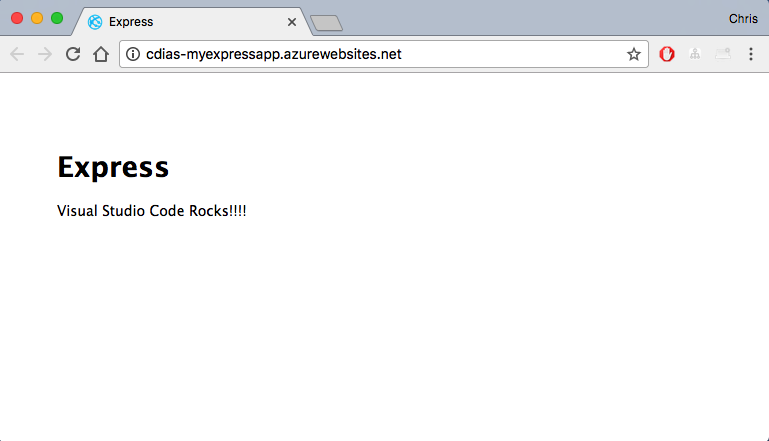
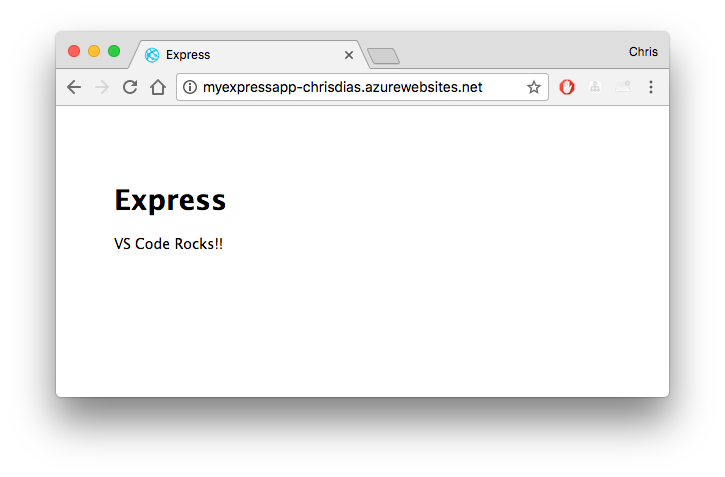
finish first round of tutorial

Changed region(s): [[0.0, 0.0, 1.0, 0.9433], [0.0, 0.1179, 0.0303, 0.1474]]

diff --git a/tutorials/nodejs-deployment/2.setup.md b/tutorials/nodejs-deployment/2.setup.md
@@ -1,7 +1,7 @@
 ---
 Order: 2
-TOCTitle: Setup
-PageTitle: Setup
+TOCTitle: Set up
+PageTitle: Set up
 MetaDescription: 
 MetaSocialImage: 
 Date: 
@@ -22,8 +22,6 @@ In this step you will install the Azure Command Line Interface (CLI). You will u
 
 The Azure CLI is cross platform and runs on Windows, MacOS, as well as many different Linux distributions.
 
-<button>Install the Azure CLI</button>
-
 > [Install the Azure CLI](https://docs.microsoft.com/en-us/cli/azure/install-azure-cli)
 
 ### Log In
@@ -33,7 +31,7 @@ Once installed, you can use the `az` command from your favorite terminal.
 Following the instructions, browse to [https://aka.ms/devicelogin](https://aka.ms/devicelogin) and paste in the 9 character code. When prompted, use the email address and password you used when creating your Azure account.
 
 ``` bash
-az login
+$ az login
 To sign in, use a web browser to open the page https://aka.ms/devicelogin and enter the code BF9BUDLGR to authenticate.
 ```
 
@@ -42,39 +40,24 @@ To sign in, use a web browser to open the page https://aka.ms/devicelogin and en
 Make sure you've got the latest CLI components installed by telling the CLI to update itself. This is useful if you have not run the CLI in a while.
 
 ``` bash
-az component update
+$ az component update
 ```
-
-### Set the Subscription
-
-If you have multiple Azure subscriptions you will want to make sure you are using the appropriate one for this walkthrough. List all of the subscriptions you have access to and then set the active one.
-
-``` bash
-az account list -o table
-Name                                         CloudName    SubscriptionId                        State    IsDefault
--------------------------------------------  -----------  ------------------------------------  -------  -----------
-Windows Azure MSDN - Visual Studio Ultimate  AzureCloud   b9f03513-e38b-4ef7-81a2-2669c52cdd51  Enabled
-Demo App Subscription                        AzureCloud   065849c9-c0c8-43d0-874c-01c7b295a1bc  Enabled  True
-ToDo App Subscription                        AzureCloud   546ac631-883f-4fb4-bff0-b8639ed6e7c8  Enabled
-
-az account set --subscription "Windows Azure MSDN - Visual Studio Ultimate"
-az configure --defaults location=westus
-```
-
 ## Prerequisite Check
 
 Before we continue, ensure that you have all of the prerequisites properly installed. Type each command and ensure it displays the version you have installed. If your Node.js version is less than 6, please [upgrade](https://nodejs.org/en/download/) to the most current LTS ("Long Term Stable") release.
 
 ``` bash
-node -v
+$ node -v
 6.10.2
 ```
 
 Now check that you have `git` installed. If not, [install](https://git-scm.com/downloads) it and test again.
 
 ``` bash
-git --version
+$ git --version
 git version 2.6.4
 ```
 
-<button>I've installed the Azure CLI and the prerequisites</button>
+---- 
+
+<div class="btn" a href="/tutorials/nodejs-deployment/3.express">I've installed the Azure CLI and the prerequisites</div>

diff --git a/tutorials/nodejs-deployment/4.create-website.md b/tutorials/nodejs-deployment/4.create-website.md
@@ -18,7 +18,7 @@ In this step you will use the Azure CLI to create an website on Azure.
 A "Resource Group" is essentially a named collection of all our application's resources in Azure. For example, Resource Group can contain a reference to a website, a database, and a function. 
 
 ``` bash
-az group create --name myResourceGroup --location westus 
+$ az group create --name myResourceGroup --location westus 
 ```
 
 Here we created a Resource Group called `myResourceGroup` and we are telling Azure to store the Resource Group metadata (the list of resources in the group) in the `westus` data center.
@@ -26,7 +26,7 @@ Here we created a Resource Group called `myResourceGroup` and we are telling Azu
 Next, let's tell the Azure CLI to use this newly created Resource Group as the default group in any subsequent commands so we don't have to type it in each time. While we're at it, we'll tell the CLI that we want everything stored in the `westus` data center too.
 
 ``` bash
-az configure --defaults group=myResourceGroup location=westus
+$ az configure --defaults group=myResourceGroup location=westus
 ```
 
 ## Create an App Service Plan
@@ -34,7 +34,7 @@ az configure --defaults group=myResourceGroup location=westus
 An "App Service Plan" defines the physical resources that will be used to host our Website. In this walkthrough we will use a **Free** hosting plan (`--sku F1`) which means our site will be hosted on a machine alongside other websites. You can scale up and be the only site running on a machine by specifying a different value for `--sku`. 
 
 ``` bash
-az appservice plan create --name myPlan --sku F1
+$ az appservice plan create --name myPlan --sku F1
 ``` 
 
 ## Create the Website
@@ -42,7 +42,7 @@ az appservice plan create --name myPlan --sku F1
 Now create the website. Make sure to give it a **unique name** as it will be referenced as http://**unique-name**.azurewebsites.net. In this example, we'll call it `myExpressApp-chrisdias`.
 
 ``` bash
-az appservice web create --name myExpressApp-chrisdias --plan myPlan
+$ az appservice web create --name myExpressApp-chrisdias --plan myPlan
 ```
 
 ## Run the Website
@@ -50,11 +50,13 @@ az appservice web create --name myExpressApp-chrisdias --plan myPlan
 Finally, let's ensure the site is up and running.
 
 ``` bash
-az appservice web browse --name myExpressApp-chrisdias
+$ az appservice web browse --name myExpressApp-chrisdias
 ```
 
 You should see something like this:
 
-![Empty Azure Website](images/emptyazuresite.png)
+![Empty Azure Website](tutorials/nodejs-deployment/images/emptyazuresite.png)
 
-<button>My site is running</button>
+---- 
+
+<div class="btn" a href="/tutorials/nodejs-deployment/5.deploy-website">My site is running</div>

diff --git a/tutorials/nodejs-deployment/5.deploy-website.md b/tutorials/nodejs-deployment/5.deploy-website.md
@@ -18,9 +18,9 @@ In this step you will deploy your Node.js website using Git and the Azure CLI. Y
 Initialize a local Git repository and make an initial commit. Git will respect the `.gitignore` file created when you first created the application using the Express generator and not commit the `node_modules` folder.
 
 ``` bash
-git init
-git add -A
-git commit -m "Initial Commit"
+$ git init
+$ git add -A
+$ git commit -m "Initial Commit"
 ```
 
 ## Set up a Remote
@@ -28,13 +28,13 @@ git commit -m "Initial Commit"
 Configure the Website for deployment via Git. If you have not already set up deploy credentials in Azure, do this first, replacing `UserName` and `Password` below. Note that `UserName` must be uniqe across Azure!
 
 ``` bash
-az appservice web deployment user set --user-name **UserName** --password **Password**
+$ az appservice web deployment user set --user-name UserName --password Password
 ```
 
 This command will return the Git endpoint to push to which includes the `UserName`.
 
 ``` bash
-az appservice web source-control config-local-git --name myExpressApp-chrisdias
+$ az appservice web source-control config-local-git --name myExpressApp-chrisdias
 {
   "url": "https://chrisdias@myexpressapp-chrisdias.scm.azurewebsites.net/myExpressApp-chrisdias.git"
 }
@@ -43,7 +43,7 @@ az appservice web source-control config-local-git --name myExpressApp-chrisdias
 With the endpoint in hand, set up a new Remote in Git named `azure`.
 
 ``` bash
-git remote add azure https://chrisdias@myexpressapp-chrisdias.scm.azurewebsites.net/myExpressApp-chrisdias.git
+$ git remote add azure https://chrisdias@myexpressapp-chrisdias.scm.azurewebsites.net/myExpressApp-chrisdias.git
 ```
 
 ## Deploy to Azure
@@ -51,7 +51,7 @@ git remote add azure https://chrisdias@myexpressapp-chrisdias.scm.azurewebsites.
 Finally, you can deploy the application to Azure!  
 
 ``` bash
-git push azure master
+$ git push azure master
 Password for 'https://chrisdias@myexpressapp-chrisdias.scm.azurewebsites.net':
 Counting objects: 17, done.
 Delta compression using up to 8 threads.
@@ -71,7 +71,8 @@ You'll be prompted for the password you provided above. You should then see a se
 
 Browse to the site again and you should see your Express site hosted in Azure!
 
-![Express Site Hosted in Azure](images/expressinazure.png)
+![Express Site Hosted in Azure](tutorials/nodejs-deployment/images/expressinazure.png)
 
----
-<button>Next</button>
+---- 
+
+<div class="btn" a href="/tutorials/nodejs-deployment/6.tailing-logs">My site is on Azure</div>

diff --git a/tutorials/nodejs-deployment/3.express.md b/tutorials/nodejs-deployment/3.express.md
@@ -1,7 +1,7 @@
 ---
 Order: 3
-TOCTitle: A simple Node.js Express App
-PageTitle: A simple Node.js Express App
+TOCTitle: Create the App
+PageTitle: Create the App
 MetaDescription: 
 MetaSocialImage: 
 Date: 
@@ -9,9 +9,9 @@ ShortDescription:
 Author: 
 ---
 
-# A simple Node.js Express Application
+# The Application
 
-In this step you will build a very simple Node.js application that can be deployed to the Cloud. You will use an application generator to quickly scaffold out the application from a terminal.
+In this step you will create a very simple Node.js application that can be deployed to the Cloud. You will use an application generator to quickly scaffold out the application from a terminal.
 
 ## Install the Express Generator
 
@@ -28,7 +28,7 @@ The -g switch installs the Express Generator globally on your machine so you can
 We can now scaffold a new Express application called `myExpressApp` by running:
 
 ``` bash
-express myExpressApp --view pug --git
+$ express myExpressApp --view pug --git
 ```
 
 The `--view pug --git` parameters tell the generator to use the [pug](https://pugjs.org/api/getting-started.html) template engine (formerly known as `jade`) and to create a `.gitignore` file.
@@ -36,8 +36,8 @@ The `--view pug --git` parameters tell the generator to use the [pug](https://pu
 To install all of the application's dependencies, go to the new folder and run `npm install`.
 
 ``` bash
-cd myExpressApp
-npm install
+$ cd myExpressApp
+$ npm install
 ```
 
 ## Run the Application
@@ -45,12 +45,13 @@ npm install
 Last, let's ensure that the application runs. From the terminal, start the application using the `npm start` command and then browse to [http://localhost:3000](http://localhost:3000).
 
 ``` bash
-npm start
+$ npm start
 ```
 
 You should see something like this:
 
-![Running Express Application](images/express.png)
+![Running Express Application](tutorials/nodejs-deployment/images/express.png)
 
+---- 
 
-<button>I created the Node.js application</button>
+<div class="btn" a href="/tutorials/nodejs-deployment/4.create-website">I created the Node.js application</div>

diff --git a/tutorials/nodejs-deployment/7.publishing-changes.md b/tutorials/nodejs-deployment/7.publishing-changes.md
@@ -1,0 +1,50 @@
+---
+Order: 7
+TOCTitle: Publish Changes
+PageTitle: Publish Changes
+MetaDescription: 
+MetaSocialImage: 
+Date: 
+ShortDescription: 
+Author: 
+---
+
+# Publish Changes to your Application
+
+In this step you will make changes to your application, commit them to the local Git repository, and then redeploy your site by pushing to Azure.
+
+## Edit Your Application
+
+Open the `myExpressApp` folder in Visual Studio Code (or your favorite text editor).
+
+![Open VS Code](nodejs-deployment/images/openvscode.png)
+
+Open `views/index.pug` and change line `5` to say somethign fun such as `VS Code Rocks!!` and then save the file (Ctrl+S).
+
+![Edit pug file](nodejs-deployment/images/editpugfile.png)
+
+> Pro Tip: Turn on "AutoSave" from the `File | AutoSave` menu!
+
+## Commit Changes
+
+Open the Source Code Control viewlet (Shift+Ctrl+G), enter a commit message, and press `Cmd+Enter` to commit the change. 
+
+![Commit Changes](nodejs-deployment/images/commitchanges.png)
+
+## Publish Changes to Website
+
+Click on the Source Code Control overflow menu (`...`) and choose `Publish`.  
+
+![Publish Menu](nodejs-deployment/images/publishmenu.png)
+
+You will be prompted for a Remote to publish to, choose `Azure`.
+
+![Choose Azure](nodejs-deployment/images/chooseazure.png)
+
+Your changes will then be deployed to the Website. Refresh your application and you should see the changes.
+
+![Published Changes](nodejs-deployment/images/vscoderocks.png)
+
+---- 
+
+<div class="btn" a href="https://code.visualstudio.com">I'm Done!</div>

diff --git a/tutorials/nodejs-deployment/6.tailing-logs.md b/tutorials/nodejs-deployment/6.tailing-logs.md
@@ -1,5 +1,5 @@
 ---
-Order: 10
+Order: 6
 TOCTitle: Tailing Logs
 PageTitle: Tailing Logs
 MetaDescription: 
@@ -16,7 +16,7 @@ In this step you will "tail" the logs from the running Website. Any calls to `co
 Run the following Azure CLI command.
 
 ``` bash
-az appservice web log tail --name myExpressApp-chrisdias
+$ az appservice web log tail --name myExpressApp-chrisdias
 ```
 
 After a few seconds you should see a message indicating that you are connected to the log-streaming service.
@@ -32,4 +32,7 @@ GET / 304 1.704 ms - -
 GET / 304 0.935 ms - -
 GET / 304 0.490 ms - -
 ```
-<button>Next</button>
+
+---- 
+
+<div class="btn" a href="/tutorials/nodejs-deployment/7.publishing-changes">I can see my logs</div>

diff --git a/tutorials/nodejs-deployment/1.introduction.md b/tutorials/nodejs-deployment/1.introduction.md
@@ -15,6 +15,8 @@ This walkthrough will have you deploying a Node.js application to the Azure clou
 
 If you don't have an Azure account, [sign up today](https://azure.microsoft.com/en-us/free/) for a free 30 day account with $200 in Azure credits to try out any combination of services.
 
-You'll also need [Node.js and npm](https://nodejs.org/en/download/) and [git](https://git-scm.com/downloads) installed locally. 
+You'll need [Node.js and npm](https://nodejs.org/en/download/) and [git](https://git-scm.com/downloads) installed locally. 
 
-<button>I'm ready to start!</button>
+---- 
+
+<div class="btn" a href="/tutorials/nodejs-deployment/2.setup">I'm ready to start!</div>
